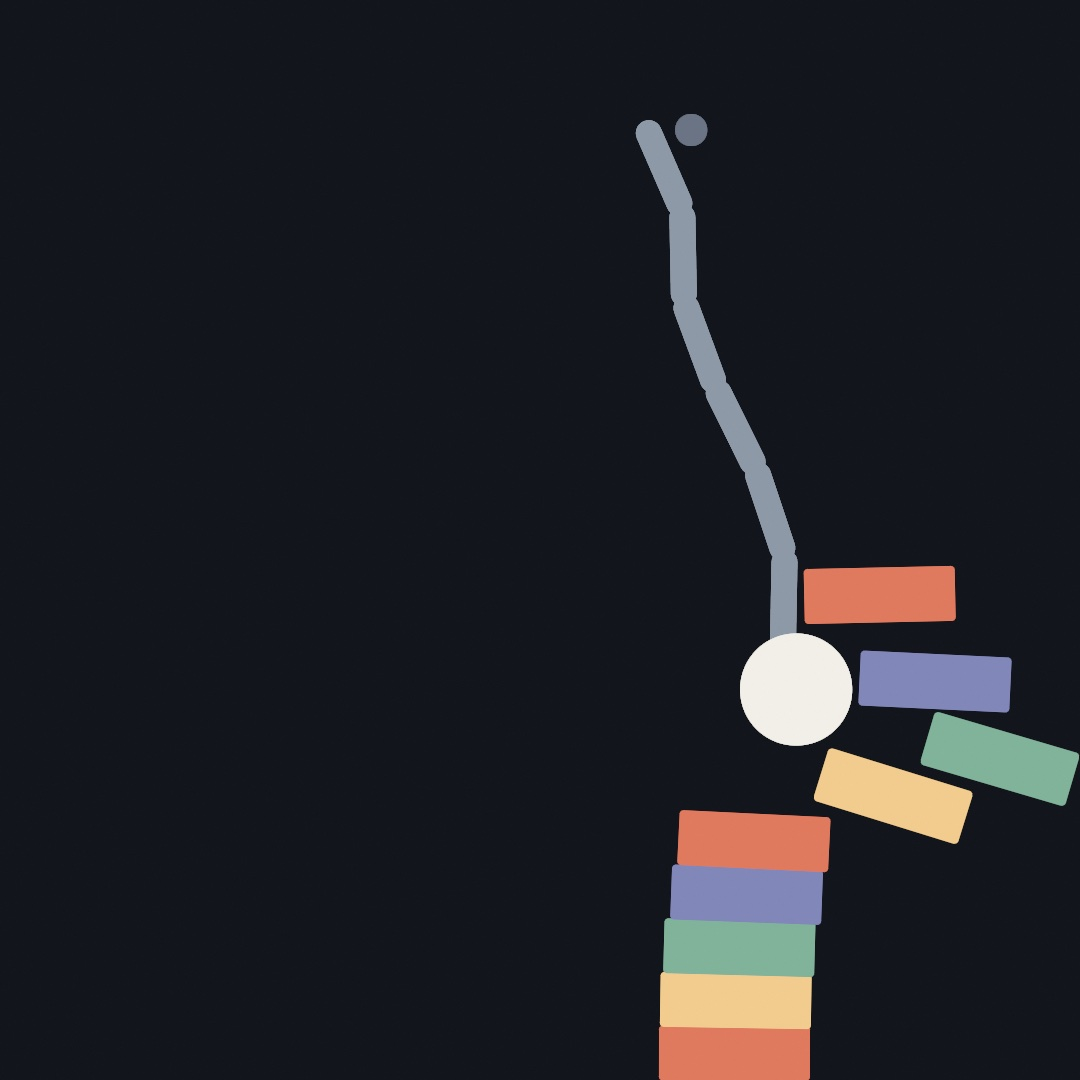
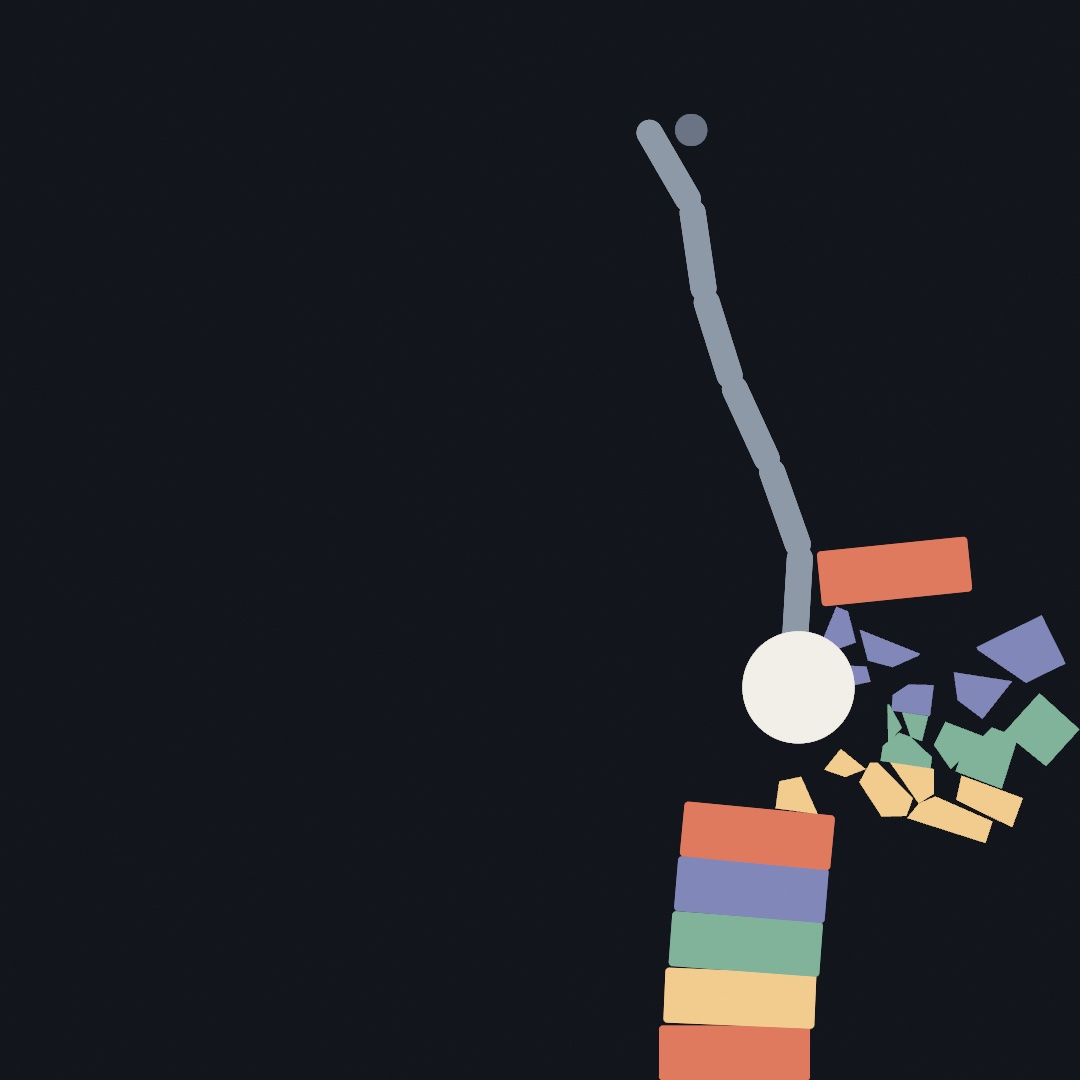
The wrecking ball figure is re-rendered from its changed source, and its description now says the bricks the ball hits shatter into shards rather than fly off whole.
Claude-Session: https://claude.ai/code/session_01WqLtBAH3GLezrn1E1FY2W7

Changed region(s): [[0.5806, 0.1222, 1.0, 0.9778], [0.6722, 0.6417, 0.7028, 0.6722]]

diff --git a/Guide/11-ForcesAndPhysics.md b/Guide/11-ForcesAndPhysics.md
@@ -4,7 +4,7 @@
 
 # 11. Forces and physics
 
-<img src="Images/11-ForcesAndPhysics/Wrecker.jpg" alt="A wrecking ball on a chain of gray links mid-swing, smashing through a tower of colored bricks, four bricks flying to the right while the rest of the column leans" width="560">
+<img src="Images/11-ForcesAndPhysics/Wrecker.jpg" alt="A wrecking ball on a chain of gray links mid-swing, smashing into a tower of colored bricks, the bricks it hit shattered into shards flying to the right while the rest of the column leans" width="560">
 
 In [Chapter 10](10-Vectors.md) you moved things yourself. You wrote the velocity, added the gravity, decided what happens at the floor. This chapter is about the layer under that, meaning forces, the pushes that change a velocity. You'll write a few forces by hand first, and find out why mass matters. Then you'll hand the whole job to a physics world. It holds hundreds of bodies at once, connects them with springs and hinges, and lets you grab them with the mouse. The wrecking ball above is where it ends up. You get to knock the tower down yourself.
 
